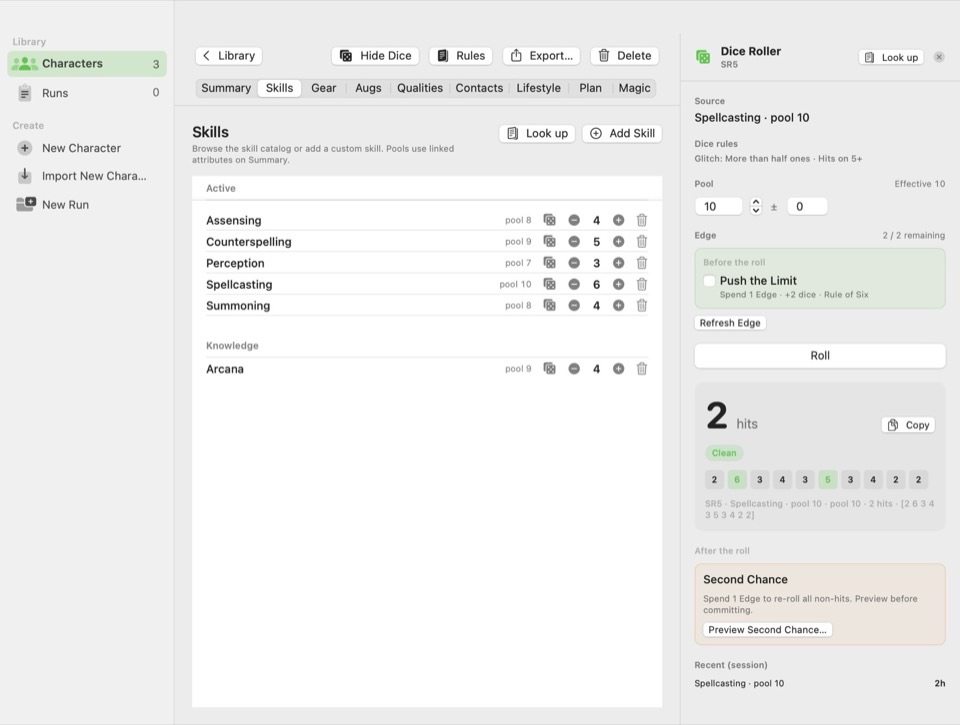
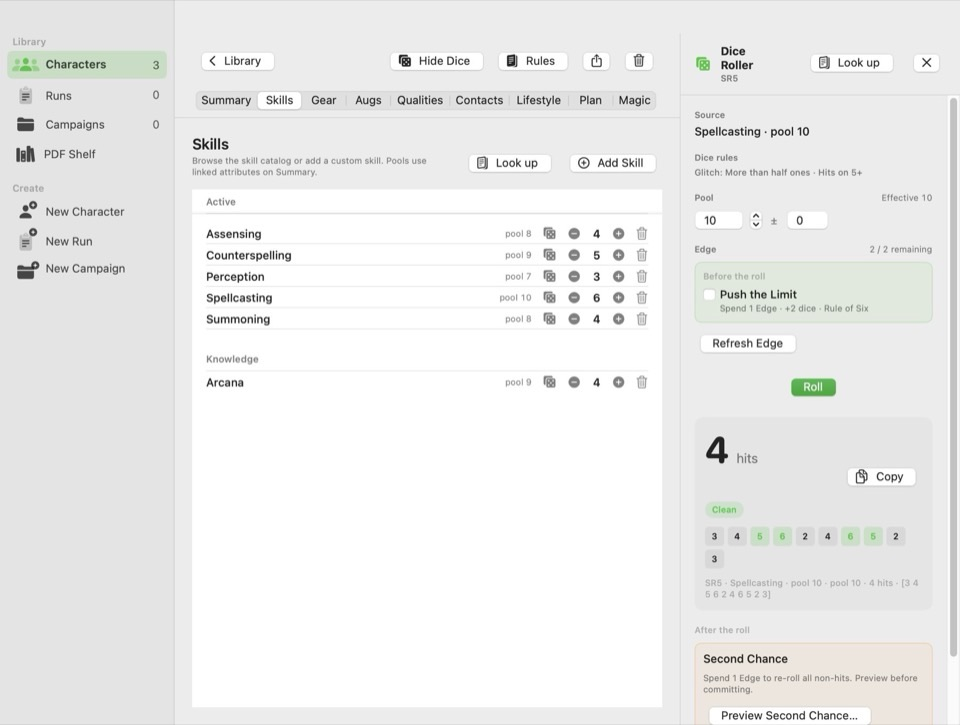
Prep 1.1.0: SwiftLint clean, README Phase 2, screenshots, signed release tooling.
Clear remaining SwiftLint warnings, document dual-PDF load deferral in the
audit, refresh marketing marquees, expand README for Run Tracker Phase 2, bump
marketing version to 1.1.0, and extend release_build.sh with Developer ID sign
and optional notarytool notarization.

diff --git a/ShadowDeck/UI/ToolbarSupport.swift b/ShadowDeck/UI/ToolbarSupport.swift
@@ -73,8 +73,8 @@ struct AppChromeButton: View {
         style: Style = .regular,
         isEnabled: Bool = true,
         action: @escaping () -> Void
-    ) -> AppChromeButton {
-        AppChromeButton(
+    ) -> Self {
+        Self(
             kind: .icon(systemImage: systemImage),
             help: help,
             style: style,
@@ -91,8 +91,8 @@ struct AppChromeButton: View {
         keyEquivalent: String = "",
         keyModifiers: NSEvent.ModifierFlags = [],
         action: @escaping () -> Void
-    ) -> AppChromeButton {
-        AppChromeButton(
+    ) -> Self {
+        Self(
             kind: .title(title),
             help: help ?? title,
             style: style,
@@ -112,8 +112,8 @@ struct AppChromeButton: View {
         keyEquivalent: String = "",
         keyModifiers: NSEvent.ModifierFlags = [],
         action: @escaping () -> Void
-    ) -> AppChromeButton {
-        AppChromeButton(
+    ) -> Self {
+        Self(
             kind: .labeled(title: title, systemImage: systemImage),
             help: help ?? title,
             style: style,
@@ -158,7 +158,7 @@ struct AppChromeButton: View {
 struct IconToolbarButton: View {
     let title: String
     let systemImage: String
-    var role: ButtonRole? = nil
+    var role: ButtonRole?
     var action: () -> Void
 
     var body: some View {
@@ -224,7 +224,7 @@ private struct ChromeNSButton: NSViewRepresentable {
             button.image = nil
             button.imagePosition = .noImage
 
-        case .labeled(let title, let systemImage):
+        case let .labeled(title, systemImage):
             button.title = title
             button.image = NSImage(systemSymbolName: systemImage, accessibilityDescription: title)?
                 .withSymbolConfiguration(symbolConfig)

diff --git a/ShadowDeck/Models/RunTemplate.swift b/ShadowDeck/Models/RunTemplate.swift
@@ -149,10 +149,10 @@ public extension Run {
         location: String = "",
         campaignID: UUID? = nil,
         edition: Edition? = nil
-    ) -> Run {
+    ) -> Self {
         let resolvedEdition = edition ?? template.editionHint ?? .sr5
         let title = template.resolvedTitle(location: location)
-        var run = Run.makeDraft(title: title, edition: resolvedEdition, campaignID: campaignID)
+        var run = Self.makeDraft(title: title, edition: resolvedEdition, campaignID: campaignID)
         run.location = location.trimmingCharacters(in: .whitespacesAndNewlines)
         run.tags = template.tags
         run.opposition = template.oppositionPrompt
@@ -179,7 +179,7 @@ public extension Run {
             objectives: objectives.map {
                 RunTemplateObjective(text: $0.text, isPrimary: $0.isPrimary)
             },
-            oppositionPrompt: Run.isBlankNote(opposition)
+            oppositionPrompt: Self.isBlankNote(opposition)
                 ? ""
                 : ChummerParsingHelpers.cleanRichText(opposition),
             expectedPayout: expectedPayout,

diff --git a/ShadowDeck/Rules/PlayerBriefingMarkdown.swift b/ShadowDeck/Rules/PlayerBriefingMarkdown.swift
@@ -31,11 +31,11 @@ public enum PlayerBriefingMarkdown {
             self.teamNames = teamNames
         }
 
-        public static let `default` = Options()
+        public static let `default` = Self()
 
         /// Defaults that match UI: progress off for planning/active, on for terminal runs.
-        public static func defaults(for status: RunStatus, teamNames: [String] = []) -> Options {
-            Options(
+        public static func defaults(for status: RunStatus, teamNames: [String] = []) -> Self {
+            Self(
                 includeSecondaryObjectives: true,
                 hideFailedObjectives: true,
                 showObjectiveProgress: status.isTerminal,

diff --git a/ShadowDeck/UI/Runs/CampaignsListView.swift b/ShadowDeck/UI/Runs/CampaignsListView.swift
@@ -849,7 +849,9 @@ enum CampaignHouseRuleHintsCodec {
         let parts = trimmed.components(separatedBy: freeTextSeparator)
         let catalog = Set(CampaignHouseRuleHintCatalog.allLabels)
         let head = parts[0]
-        var free = parts.dropFirst().joined(separator: freeTextSeparator)
+        var free = parts
+            .dropFirst()
+            .joined(separator: freeTextSeparator)
             .trimmingCharacters(in: .whitespacesAndNewlines)
 
         // Split head on " · " into catalog hits vs leftover free text.

diff --git a/ShadowDeck/Models/Campaign.swift b/ShadowDeck/Models/Campaign.swift
@@ -55,8 +55,8 @@ public struct Campaign: Codable, Sendable, Hashable, Identifiable {
         !name.trimmingCharacters(in: .whitespacesAndNewlines).isEmpty
     }
 
-    public static func makeDraft(name: String = "New Campaign", edition: Edition = .sr5) -> Campaign {
-        Campaign(name: name, edition: edition)
+    public static func makeDraft(name: String = "New Campaign", edition: Edition = .sr5) -> Self {
+        Self(name: name, edition: edition)
     }
 
     // MARK: Codable

diff --git a/ShadowDeck/Models/Character.swift b/ShadowDeck/Models/Character.swift
@@ -267,7 +267,7 @@ public struct CharacterReputation: Codable, Sendable, Hashable {
     public var notoriety: Int
     public var publicAwareness: Int
 
-    public static let zero = CharacterReputation(streetCred: 0, notoriety: 0, publicAwareness: 0)
+    public static let zero = Self(streetCred: 0, notoriety: 0, publicAwareness: 0)
 
     public init(streetCred: Int = 0, notoriety: Int = 0, publicAwareness: Int = 0) {
         self.streetCred = streetCred

diff --git a/ShadowDeck/UI/Runs/NewRunFromTemplateSheet.swift b/ShadowDeck/UI/Runs/NewRunFromTemplateSheet.swift
@@ -11,7 +11,7 @@ struct NewRunFromTemplateSheet: View {
     @Environment(LibraryEnvironment.self) private var libraryEnvironment
 
     /// Pre-select this campaign (e.g. opened from campaign detail).
-    var preferredCampaignID: UUID? = nil
+    var preferredCampaignID: UUID?
     var onCancel: () -> Void
     /// Called with the new run id after save.
     var onCreated: (UUID) -> Void

diff --git a/README.md b/README.md
@@ -11,7 +11,7 @@
 </p>
 
 <p align="center">
-  <a href="https://github.com/RcktMan77/ShadowDeck/releases"><img src="https://img.shields.io/badge/version-1.0.0-0A7EA4?style=flat-square" alt="Version 1.0.0" /></a>
+  <a href="https://github.com/RcktMan77/ShadowDeck/releases"><img src="https://img.shields.io/badge/version-1.1.0-0A7EA4?style=flat-square" alt="Version 1.1.0" /></a>
   <img src="https://img.shields.io/badge/macOS-14%2B-000000?style=flat-square&logo=apple&logoColor=white" alt="macOS 14+" />
   <img src="https://img.shields.io/badge/Swift-6-F05138?style=flat-square&logo=swift&logoColor=white" alt="Swift 6" />
   <img src="https://img.shields.io/badge/platform-Mac-lightgrey?style=flat-square" alt="Mac" />
@@ -62,7 +62,7 @@ Chummer remains excellent for deep builds and data. **ShadowDeck is for running 
     </td>
     <td width="25%" align="center" valign="top">
       <strong>Runs</strong><br />
-      <sub>Mission library, briefing, team, session log, awards</sub>
+      <sub>Campaigns, templates, contacts, reputation, briefing, awards</sub>
     </td>
     <td width="25%" align="center" valign="top">
       <strong>Dice</strong><br />
@@ -192,10 +192,16 @@ Chummer remains excellent for deep builds and data. **ShadowDeck is for running 
     <td width="58%" valign="top">
 
 - **Run Library** — filter by status, character, and **ruleset**
-- Briefing: client, location, tags, objectives, opposition, complications
+- **Campaigns** — group jobs, notes, house-rule hints; open a campaign’s run list
+- **Templates** — mint a planning run from a built-in or custom template
+- Briefing: client, location, tags, objectives, **player-facing summary** &amp; known risks (GM spoilers stay separate)
+- **Player briefing** — copy Markdown or export PDF for the table (no opposition / GM notes)
+- **Contacts on the run** — Johnson / fixer / target / other, multi-select from character contact books, role stamps
+- **Reputation &amp; heat** — Street Cred / Notoriety / Public Awareness on Apply Awards; heat at run level
 - **Team** limited to library characters that match the run’s ruleset
-- Session log, payout &amp; heat, outcome notes, suggested equal-split awards
-- **Apply Awards…** — explicit commit of nuyen + karma to linked runners (never automatic)
+- Session log, payout, outcome notes, suggested equal-split awards
+- **Apply Awards…** — explicit commit of nuyen, karma, and optional reputation deltas (never automatic)
+- **Draft run from PDF… (Experimental)** — Missions &amp; Adventures shelf PDF → page range → AI or heuristic draft → review → planning run
 
     </td>
     <td width="42%" valign="top" align="center">
@@ -231,7 +237,7 @@ A dedicated window (⌘R) with two modes — mechanical cards for the table, and
 | Mode | What you get |
 |------|----------------|
 | **Reference** | Searchable **mechanical cards** (dice, karma, lifestyle, combat, magic, matrix, …) with short original summaries, formulas, edition notes, and compact calculators (Drain, Overwatch, glitch threshold, lifestyle burn, …) |
-| **Library** | Your **personal PDF shelf** — add rulebooks you own (drag-drop or Add PDF…), gallery/list by section, covers, continuous reader, find-in-document, thumbnails, and per-book **page offset** for front matter |
+| **Library** | Your **personal PDF shelf** — add rulebooks you own (drag-drop or Add PDF…), gallery/list by section (core / missions / sourcebooks / other), covers, continuous reader, find-in-document, thumbnails, per-book **page offset**, and (for **Missions &amp; Adventures**) experimental **draft run** entry points |
 
 **Page chips** on cards (e.g. “SR5 CRB p. 44”) open the bound PDF at the correct page when you assign a **book key** in Book settings. No rulebook PDFs are bundled or redistributed — only local files you add.
 
@@ -260,8 +266,8 @@ A dedicated window (⌘R) with two modes — mechanical cards for the table, and
 
 | Section | Items |
 |---------|--------|
-| **Library** | Characters · Runs |
-| **Create** | New Character (wizard or import) · New Run (blank or from template) · New Campaign |
+| **Library** | Characters · Campaigns · Runs · PDF Shelf (opens Rules → Library) |
+| **Create** | New Character (wizard or import) · New Run (blank, from template, or experimental PDF draft) · New Campaign |
 
 ### Requirements
 
@@ -290,9 +296,10 @@ Guiding principle: **deepen existing campaign tools** and high-frequency play ai
 | Priority | Feature | Why | Effort |
 |----------|---------|-----|--------|
 | **Done** | **Rules Reference** | Mechanical cards, calculators, personal PDF shelf, page-chip deep links (⌘R) | — |
-| **1** | **Run Tracker Phase 2** | Templates, stronger contact links from runs, outcome flow, open threads; custom award shares | Medium |
-| **2** | **Multi-domain initiative / combat tracker** | Major GM aid; better after the core loop is polished | Larger |
-| **3** | **Shared Hub (multi-user)** | Most ambitious; after the single-user experience is solid | Large |
+| **Done** | **Run Tracker Phase 2** | Campaigns, templates, run contacts, reputation/heat, player briefing export, experimental PDF draft | — |
+| **1** | **Multi-domain initiative / combat tracker** | Major GM aid; better after the core loop is polished | Larger |
+| **2** | **Shared Hub (multi-user)** | Most ambitious; after the single-user experience is solid | Large |
+| **3** | **PDF draft polish** | Stronger on-device AI drafting; heuristic remains a fallback | Medium |
 
 ---
 
@@ -314,8 +321,10 @@ xcodebuild -project ShadowDeck.xcodeproj -scheme ShadowDeck \
 xcodebuild -project ShadowDeck.xcodeproj -scheme ShadowDeck \
   -destination 'platform=macOS' test
 
-# Unsigned Release app → build/Release/ShadowDeck.app
-Scripts/release_build.sh
+# Release app → build/Release/ShadowDeck.app (optional --zip, --sign, --notarize)
+Scripts/release_build.sh --zip
+# Developer ID sign + notarize (requires notarytool keychain profile):
+#   Scripts/release_build.sh --zip --sign --notarize
 
 # Refresh README marquees (stills, GIFs, posters → Screenshots/)
 Scripts/capture_readme_screenshots.sh
